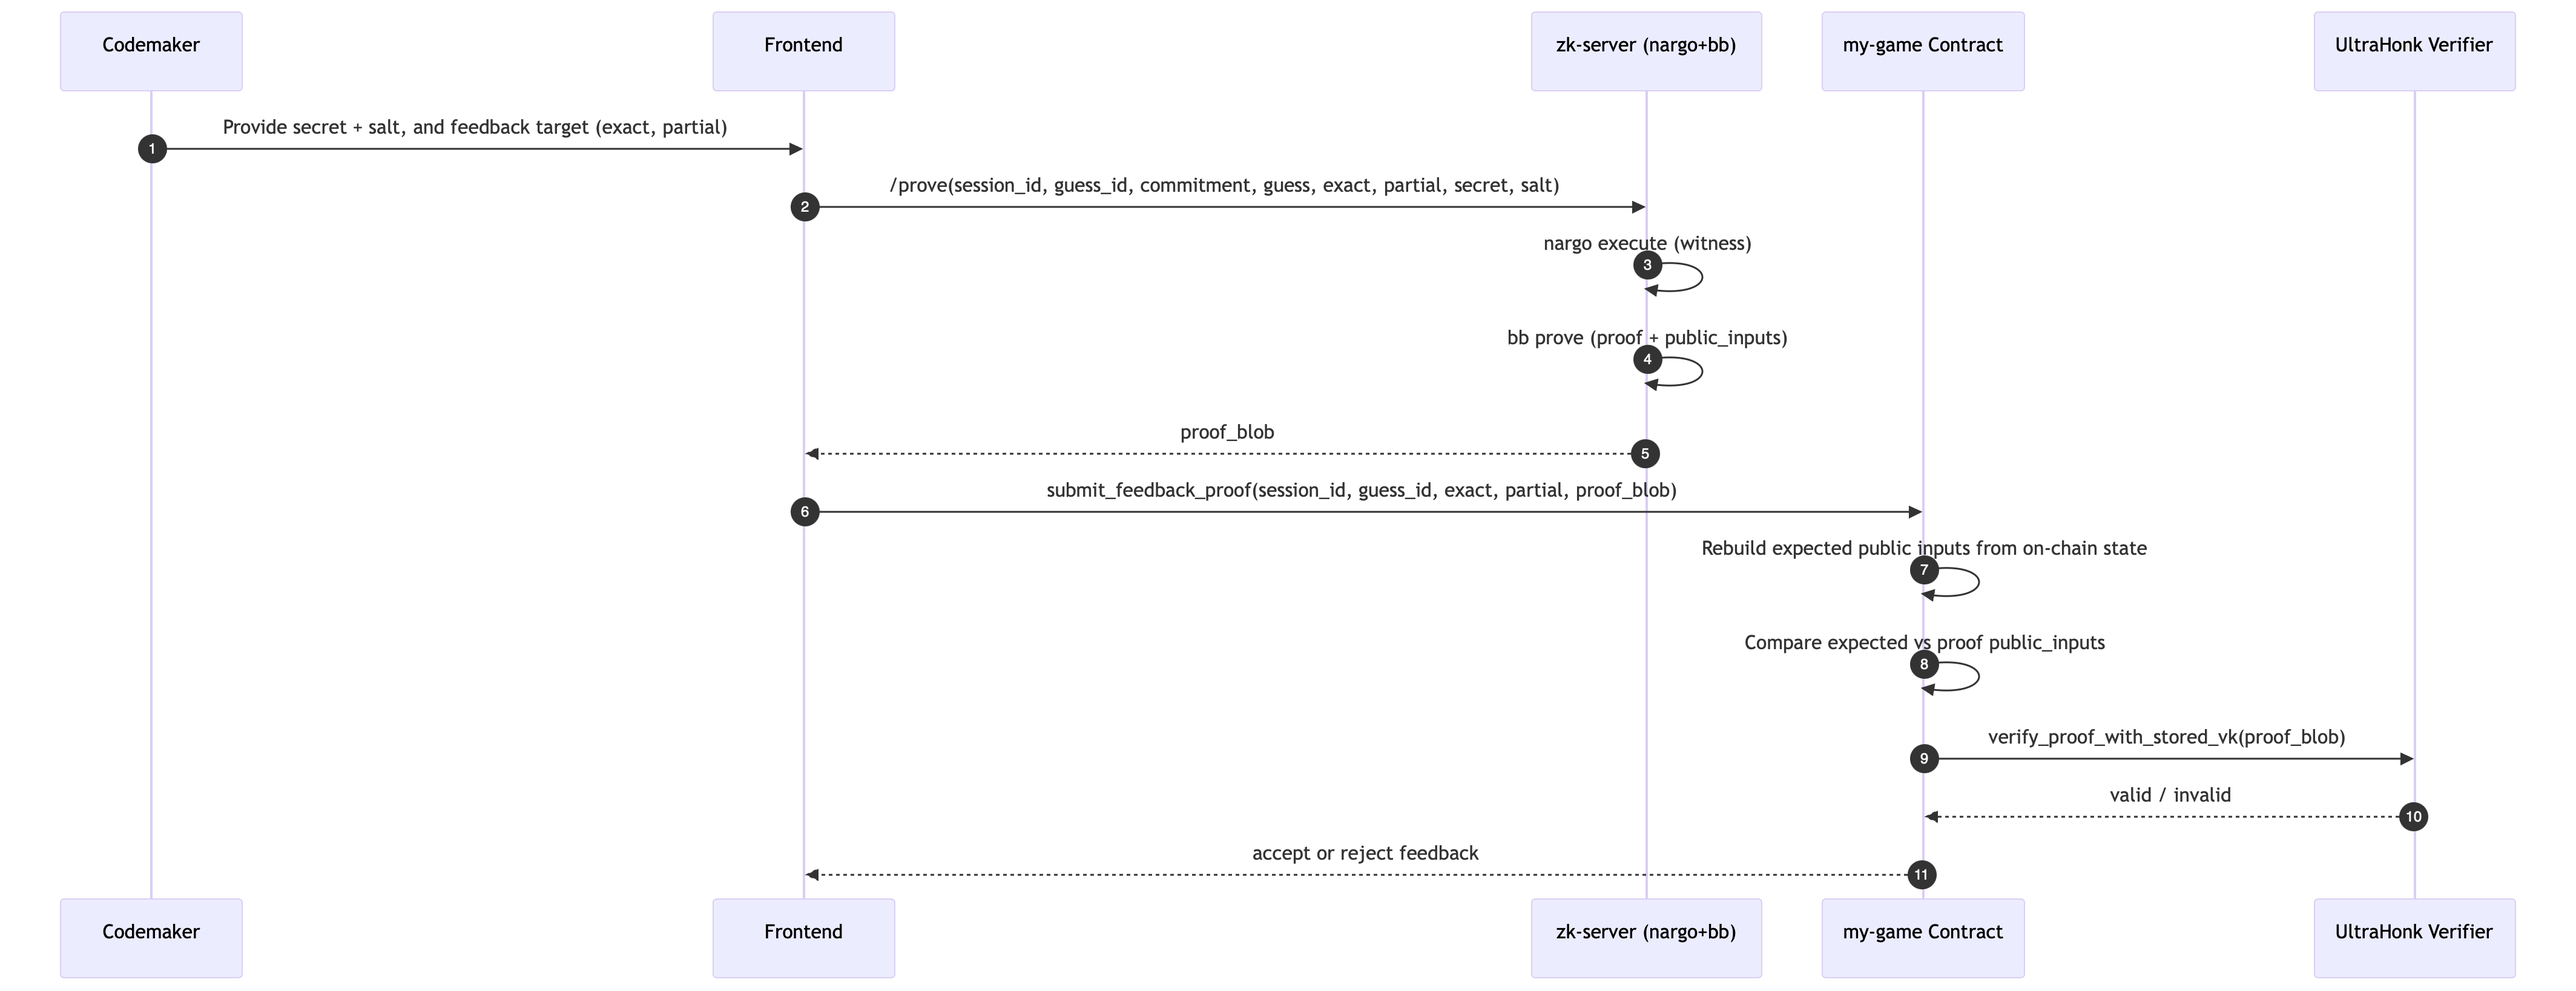
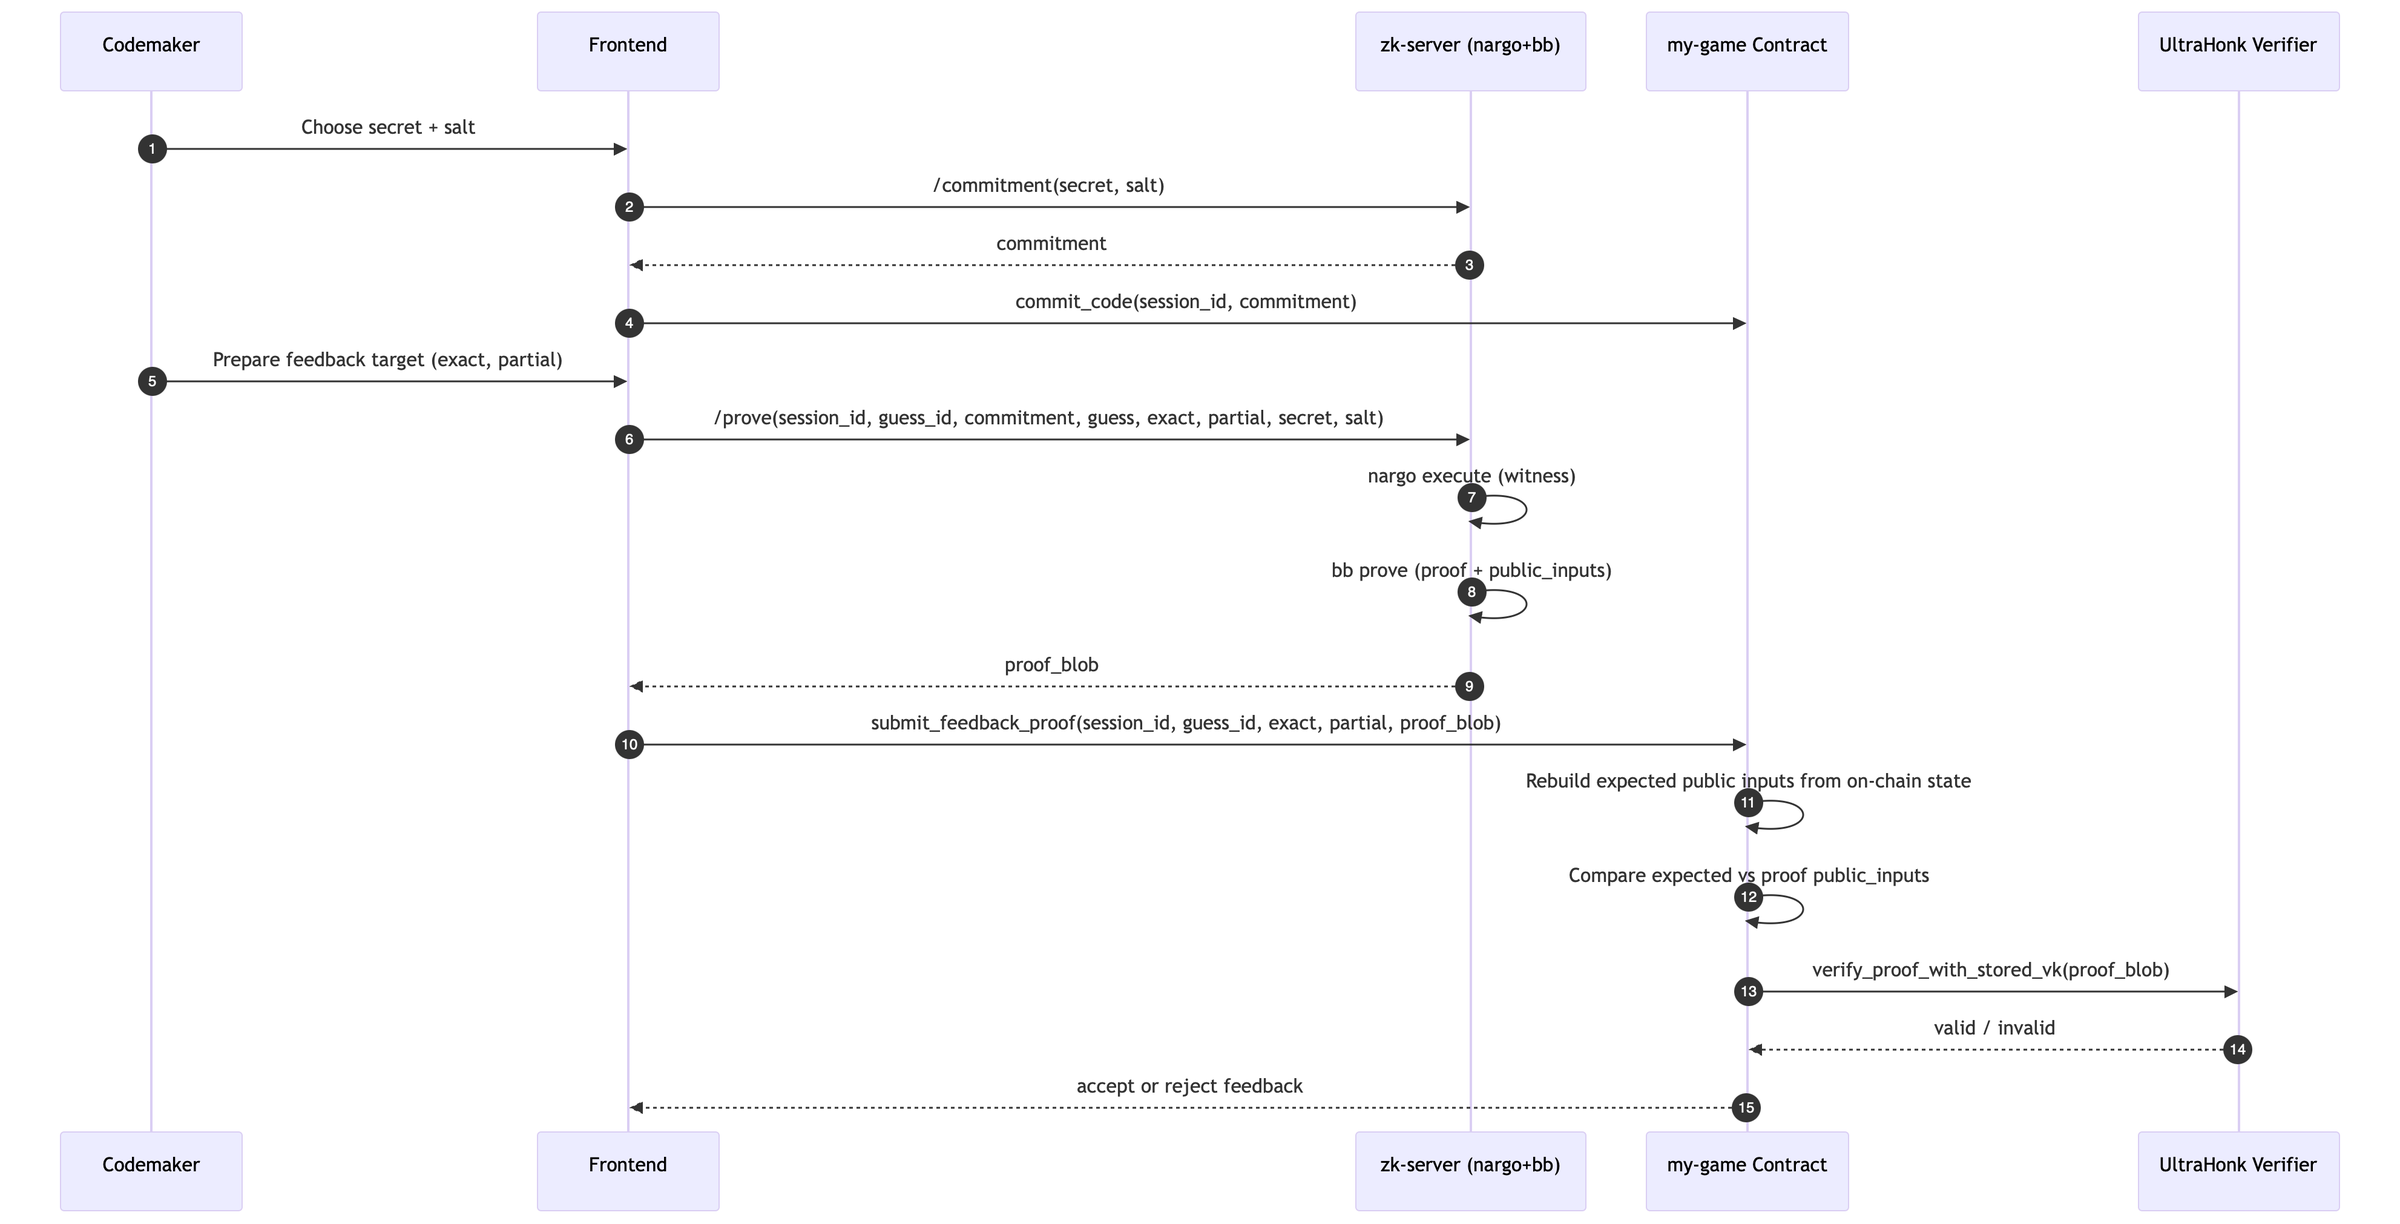
done presentation

diff --git a/my-game-frontend/src/scripts/zk-server.ts b/my-game-frontend/src/scripts/zk-server.ts
@@ -271,4 +271,3 @@ Bun.serve({
 });
 
 console.log(`zk_server listening on http://localhost:${port}`);
-console.log(`zk_server binaries: nargo=${detectedNargo}, bb=${detectedBb}`);

diff --git a/presentation.md b/presentation.md
@@ -48,38 +48,26 @@ img {
 
 # Problem
 
-- In Mastermind, Codemaker knows the secret.
-- Codebreaker needs correct feedback (`exact`, `partial`) each round.
-- Without verification, Codemaker can lie.
+Mastermind is: 
+- Only Codemaker knows the secret.
+- Codebreaker can only guess it.
+- Codemaker must give feedback (`exact` / `partial`) without revealing the secret and without lying.
 
-Goal:
-- Prove feedback is correct without revealing the secret code.
-
+Challenge:
+- It is difficult to do it on-chain.
 ---
 
 # Solution
 
-- Codemaker commits a salted hash of the secret on-chain.
-- Codebreaker submits guesses on-chain.
-- Codemaker generates zk proof for feedback correctness.
-- Contract verifies:
-  - public inputs match game state
-  - proof is valid under stored VK
+Using zk for:
+- Private secret + trustless anti-lie feedback.
 
-Result:
-- Trustless feedback, secret remains hidden.
-
----
-
-# Game Rules
-
-- Secret/guess length: 4
-- Digit space: `1..6`
-- Duplicates: allowed
-- Max rounds: 12
-- Win condition:
-  - `exact == 4` => Codebreaker wins
-  - otherwise after 12 rounds => Codemaker wins
+Points:
+- Verify that `exact` / `partial` feedback is correct without revealing the answer.
+- Codemaker cannot lie about feedback.
+- Contract accepts feedback only when:
+  - proof public inputs match on-chain game state
+  - proof is valid under the stored verification key
 
 ---
 
